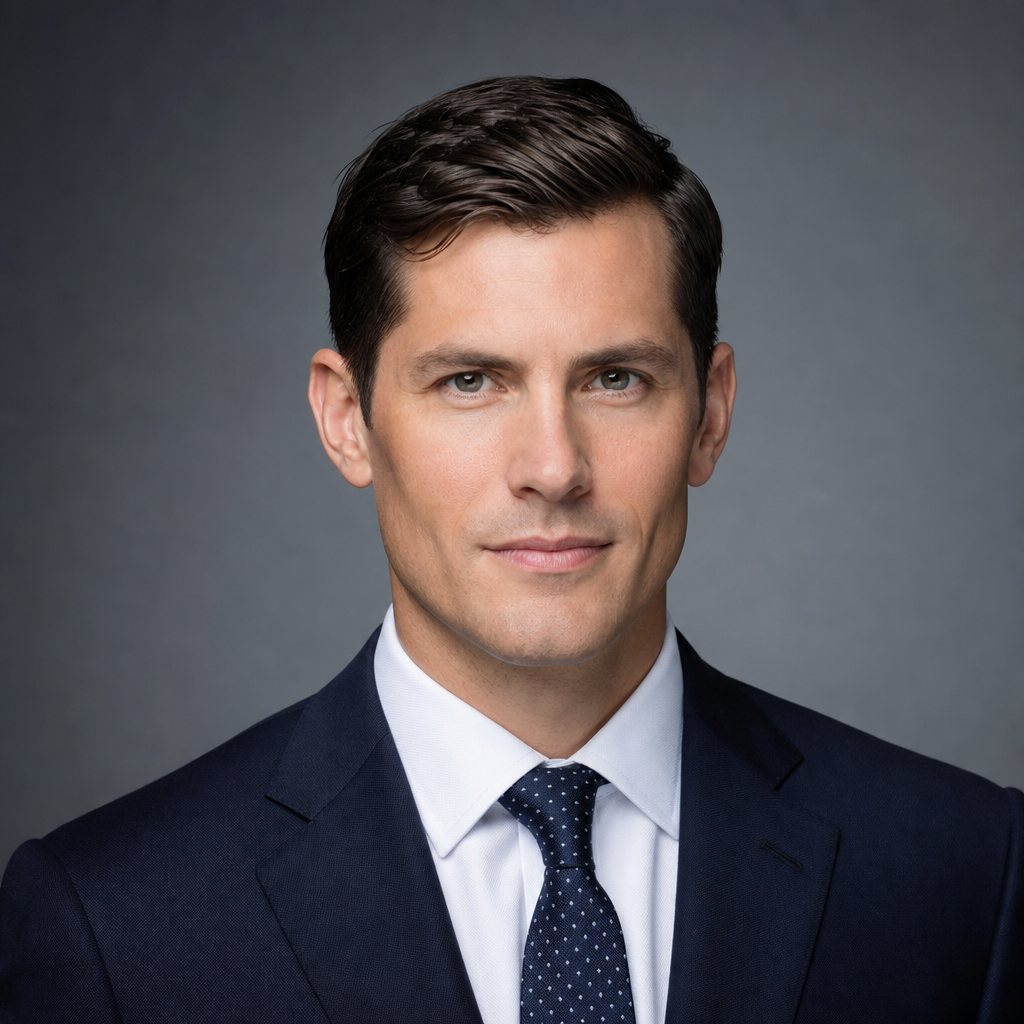
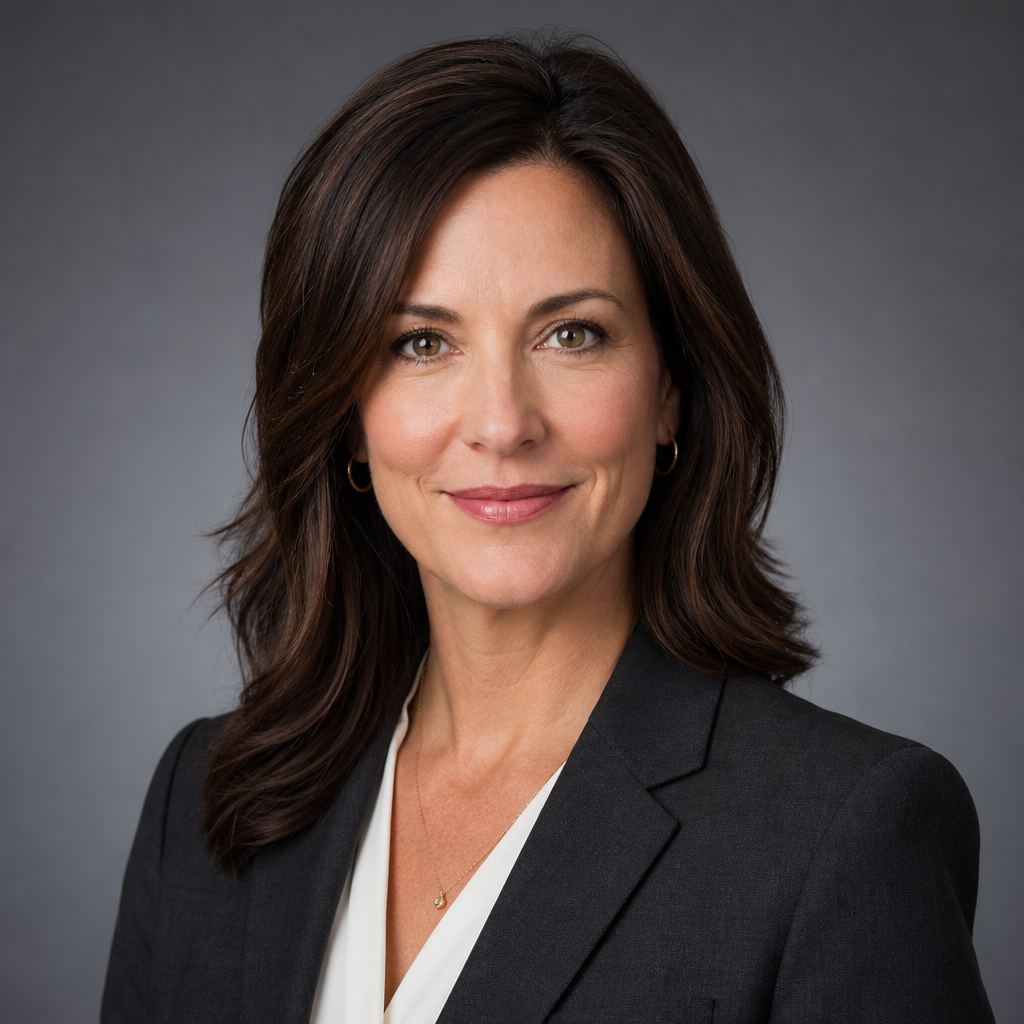
feat(settings): Current User Setting (gear) — Language + Visual Mode (Browser Default/Light/Dark); new AI headshots; mobile copy fix
- UserSettings gear in the app top bar: Language dropdown (English default; more to come) + Visual Mode beta (Browser Default resolves prefers-color-scheme / Light / Dark), persisted to localStorage.
- Dark palette via [data-theme=dark] token overrides; pre-paint script in layout (no flash) + suppressHydrationWarning.
- Regenerated institutional AI headshots for Cy Henry (VP Eng) and Ellery Vance (VP Editorial).
- /mobile: 'Full command center' -> 'Full platform in the browser'.
- Verified: eslint clean, next build green (18 routes).

diff --git a/src/components/user-settings.tsx b/src/components/user-settings.tsx
@@ -1,0 +1,138 @@
+// JHI-SIG: 69M2705M | Current User Settings (language + visual mode) | JHI Research & Analytics Firm, Inc. (proprietary)
+"use client";
+
+import { useEffect, useRef, useState } from "react";
+import { Settings as Gear } from "lucide-react";
+
+type ThemeChoice = "system" | "light" | "dark";
+
+const THEME_KEY = "aegira-theme";
+const LANG_KEY = "aegira-lang";
+
+// Browser default is English; content is English today, more languages added over time.
+const LANGUAGES: { code: string; label: string }[] = [
+  { code: "en", label: "English" },
+  { code: "es", label: "Español" },
+  { code: "fr", label: "Français" },
+  { code: "de", label: "Deutsch" },
+  { code: "pt", label: "Português" },
+  { code: "zh", label: "中文" },
+  { code: "ja", label: "日本語" }
+];
+
+function resolveTheme(choice: ThemeChoice): "light" | "dark" {
+  if (choice === "dark") return "dark";
+  if (choice === "light") return "light";
+  return window.matchMedia("(prefers-color-scheme: dark)").matches ? "dark" : "light";
+}
+
+function applyTheme(choice: ThemeChoice): void {
+  document.documentElement.dataset.theme = resolveTheme(choice);
+}
+
+const MODE_LABEL: Record<ThemeChoice, string> = {
+  system: "Browser Default",
+  light: "Light",
+  dark: "Dark"
+};
+
+export function UserSettings() {
+  const [open, setOpen] = useState(false);
+  const [theme, setTheme] = useState<ThemeChoice>("system");
+  const [lang, setLang] = useState("en");
+  const ref = useRef<HTMLDivElement>(null);
+
+  useEffect(() => {
+    const savedTheme = (localStorage.getItem(THEME_KEY) as ThemeChoice) || "system";
+    const savedLang = localStorage.getItem(LANG_KEY) || "en";
+    // Client-only hydration from localStorage (not available during SSR).
+    // eslint-disable-next-line react-hooks/set-state-in-effect
+    setTheme(savedTheme);
+    setLang(savedLang);
+    document.documentElement.lang = savedLang;
+    // Keep "Browser Default" live if the OS theme changes while selected.
+    const mq = window.matchMedia("(prefers-color-scheme: dark)");
+    const onChange = () => {
+      if (((localStorage.getItem(THEME_KEY) as ThemeChoice) || "system") === "system") {
+        applyTheme("system");
+      }
+    };
+    mq.addEventListener("change", onChange);
+    return () => mq.removeEventListener("change", onChange);
+  }, []);
+
+  useEffect(() => {
+    if (!open) return;
+    const onDoc = (e: MouseEvent) => {
+      if (ref.current && !ref.current.contains(e.target as Node)) setOpen(false);
+    };
+    document.addEventListener("mousedown", onDoc);
+    return () => document.removeEventListener("mousedown", onDoc);
+  }, [open]);
+
+  const chooseTheme = (t: ThemeChoice) => {
+    setTheme(t);
+    localStorage.setItem(THEME_KEY, t);
+    applyTheme(t);
+  };
+
+  const chooseLang = (l: string) => {
+    setLang(l);
+    localStorage.setItem(LANG_KEY, l);
+    document.documentElement.lang = l;
+  };
+
+  return (
+    <div className="user-settings" ref={ref}>
+      <button
+        type="button"
+        className="user-settings__btn"
+        aria-label="Settings"
+        aria-haspopup="menu"
+        aria-expanded={open}
+        onClick={() => setOpen((o) => !o)}
+      >
+        <Gear size={16} strokeWidth={2} aria-hidden />
+      </button>
+      {open && (
+        <div className="user-settings__panel" role="menu">
+          <p className="user-settings__title">Settings</p>
+
+          <label className="user-settings__label" htmlFor="us-lang">
+            Language
+          </label>
+          <select
+            id="us-lang"
+            name="language"
+            className="user-settings__select"
+            value={lang}
+            onChange={(e) => chooseLang(e.target.value)}
+          >
+            {LANGUAGES.map((o) => (
+              <option key={o.code} value={o.code}>
+                {o.label}
+              </option>
+            ))}
+          </select>
+          <p className="user-settings__hint">Browser default is English. More languages coming.</p>
+
+          <p className="user-settings__label">
+            Visual mode <span className="user-settings__beta">beta</span>
+          </p>
+          <div className="user-settings__modes">
+            {(["system", "light", "dark"] as ThemeChoice[]).map((t) => (
+              <button
+                key={t}
+                type="button"
+                className={`user-settings__mode${theme === t ? " is-active" : ""}`}
+                onClick={() => chooseTheme(t)}
+              >
+                {MODE_LABEL[t]}
+              </button>
+            ))}
+          </div>
+        </div>
+      )}
+    </div>
+  );
+}

diff --git a/src/app/globals.css b/src/app/globals.css
@@ -82,6 +82,31 @@
   --radius-pill: 999px;
 }
 
+/* ── Visual Mode: Dark (beta). Overrides the color tokens only — the whole platform
+   is token-based, so cards/text/borders flip via these. Applied by `data-theme="dark"`
+   on <html> (set pre-paint from the user's saved choice; "Browser Default" resolves
+   prefers-color-scheme). Higher/equal specificity than :root + later in source, so it wins. ── */
+[data-theme="dark"] {
+  color-scheme: dark;
+  --background: #0a1420;
+  --background-soft: #0f1c2c;
+  --background-card: #12212f;
+  --border: rgba(255, 255, 255, 0.14);
+  --trust: #4f8bff;
+  --trust-strong: #6ea0ff;
+  --trust-soft: rgba(79, 139, 255, 0.16);
+  --growth: #2fb47c;
+  --growth-strong: #3ac489;
+  --growth-soft: rgba(47, 180, 124, 0.18);
+  --green: var(--growth);
+  --gold: #d4a24a;
+  --gold-soft: rgba(212, 162, 74, 0.18);
+  --text: #e8eef5;
+  --muted: #93a3b5;
+  --muted-strong: #c2cedb;
+  --shadow: 0 18px 48px rgba(0, 0, 0, 0.5);
+}
+
 /* ── Base typography defaults: every element inherits the scale so new markup
    is consistent by default, without per-page font-size guesses. ── */
 body {
@@ -941,6 +966,103 @@ li {
   font-weight: var(--fw-semibold);
   font-size: var(--fs-xs);
   padding: 0.4rem 0.5rem;
+}
+
+/* ── Current User Settings (gear popover: language + visual mode) ── */
+.user-settings {
+  position: relative;
+  display: inline-flex;
+}
+.user-settings__btn {
+  display: inline-flex;
+  align-items: center;
+  justify-content: center;
+  width: 30px;
+  height: 30px;
+  border-radius: var(--radius-sm);
+  color: rgba(255, 255, 255, 0.85);
+  background: transparent;
+}
+.user-settings__btn:hover {
+  background: rgba(255, 255, 255, 0.12);
+  color: #fff;
+}
+.user-settings__panel {
+  position: absolute;
+  top: calc(100% + 8px);
+  right: 0;
+  z-index: 60;
+  width: 232px;
+  padding: var(--space-3);
+  background: var(--background-card);
+  border: 1px solid var(--border);
+  border-radius: var(--radius-md);
+  box-shadow: var(--shadow);
+  display: flex;
+  flex-direction: column;
+  gap: 0.35rem;
+}
+.user-settings__title {
+  margin: 0 0 0.25rem;
+  font-size: var(--fs-sm);
+  font-weight: var(--fw-bold);
+  color: var(--text);
+}
+.user-settings__label {
+  margin: 0.5rem 0 0.1rem;
+  font-size: var(--fs-2xs);
+  font-weight: var(--fw-bold);
+  text-transform: uppercase;
+  letter-spacing: 0.04em;
+  color: var(--muted);
+}
+.user-settings__select {
+  width: 100%;
+  padding: 0.4rem 0.5rem;
+  border: 1px solid var(--border);
+  border-radius: var(--radius-sm);
+  background: var(--background);
+  color: var(--text);
+  font-size: var(--fs-sm);
+}
+.user-settings__hint {
+  margin: 0.15rem 0 0;
+  font-size: var(--fs-2xs);
+  color: var(--muted);
+}
+.user-settings__beta {
+  margin-left: 0.35rem;
+  padding: 0.05rem 0.35rem;
+  border-radius: var(--radius-pill);
+  background: var(--gold-soft);
+  color: var(--gold);
+  font-size: var(--fs-2xs);
+  font-weight: var(--fw-bold);
+  text-transform: none;
+  letter-spacing: 0;
+}
+.user-settings__modes {
+  display: grid;
+  grid-template-columns: 1fr 1fr 1fr;
+  gap: 0.3rem;
+}
+.user-settings__mode {
+  padding: 0.4rem 0.3rem;
+  border: 1px solid var(--border);
+  border-radius: var(--radius-sm);
+  background: var(--background);
+  color: var(--muted-strong);
+  font-size: var(--fs-2xs);
+  font-weight: var(--fw-semibold);
+}
+.user-settings__mode:hover {
+  border-color: var(--trust);
+  color: var(--text);
+}
+.user-settings__mode.is-active {
+  border-color: var(--trust);
+  background: var(--trust-soft);
+  color: var(--trust);
 }
 
 .app-layout {

diff --git a/src/app/layout.tsx b/src/app/layout.tsx
@@ -29,9 +29,14 @@ export default function RootLayout({
 }: Readonly<{
   children: ReactNode;
 }>) {
+  // Pre-paint: apply the saved Visual Mode + language before first paint (no flash).
+  // "Browser Default" resolves prefers-color-scheme. suppressHydrationWarning because we
+  // mutate <html> before React hydrates.
+  const themeInit = `(function(){try{var t=localStorage.getItem('aegira-theme')||'system';var d=t==='dark'||(t==='system'&&window.matchMedia('(prefers-color-scheme: dark)').matches);document.documentElement.dataset.theme=d?'dark':'light';var l=localStorage.getItem('aegira-lang');if(l){document.documentElement.lang=l;}}catch(e){}})();`;
   return (
-    <html lang="en">
+    <html lang="en" suppressHydrationWarning>
       <body>
+        <script dangerouslySetInnerHTML={{ __html: themeInit }} />
         <RoleProvider>{children}</RoleProvider>
       </body>
     </html>

diff --git a/src/components/app-shell.tsx b/src/components/app-shell.tsx
@@ -5,6 +5,7 @@ import { AppMenu } from "@/components/app-menu";
 import { GlobalSearch } from "@/components/global-search";
 import { Logo } from "@/components/logo";
 import { MarketTicker } from "@/components/market-ticker";
+import { UserSettings } from "@/components/user-settings";
 
 type AppShellProps = {
   eyebrow?: string;
@@ -30,6 +31,7 @@ export function AppShell({ eyebrow, title, description, children }: AppShellProp
           <Link className="app-topbar__account" href="/account">
             Account
           </Link>
+          <UserSettings />
         </div>
       </header>
 

diff --git a/src/app/mobile/page.tsx b/src/app/mobile/page.tsx
@@ -421,7 +421,7 @@ export default function MobileApp() {
               <div className="m-grid-2">
                 <div className="m-card">
                   <span>Web</span>
-                  <p>Full command center in the browser.</p>
+                  <p>Full platform in the browser.</p>
                 </div>
                 <div className="m-card">
                   <span>Mobile</span>
